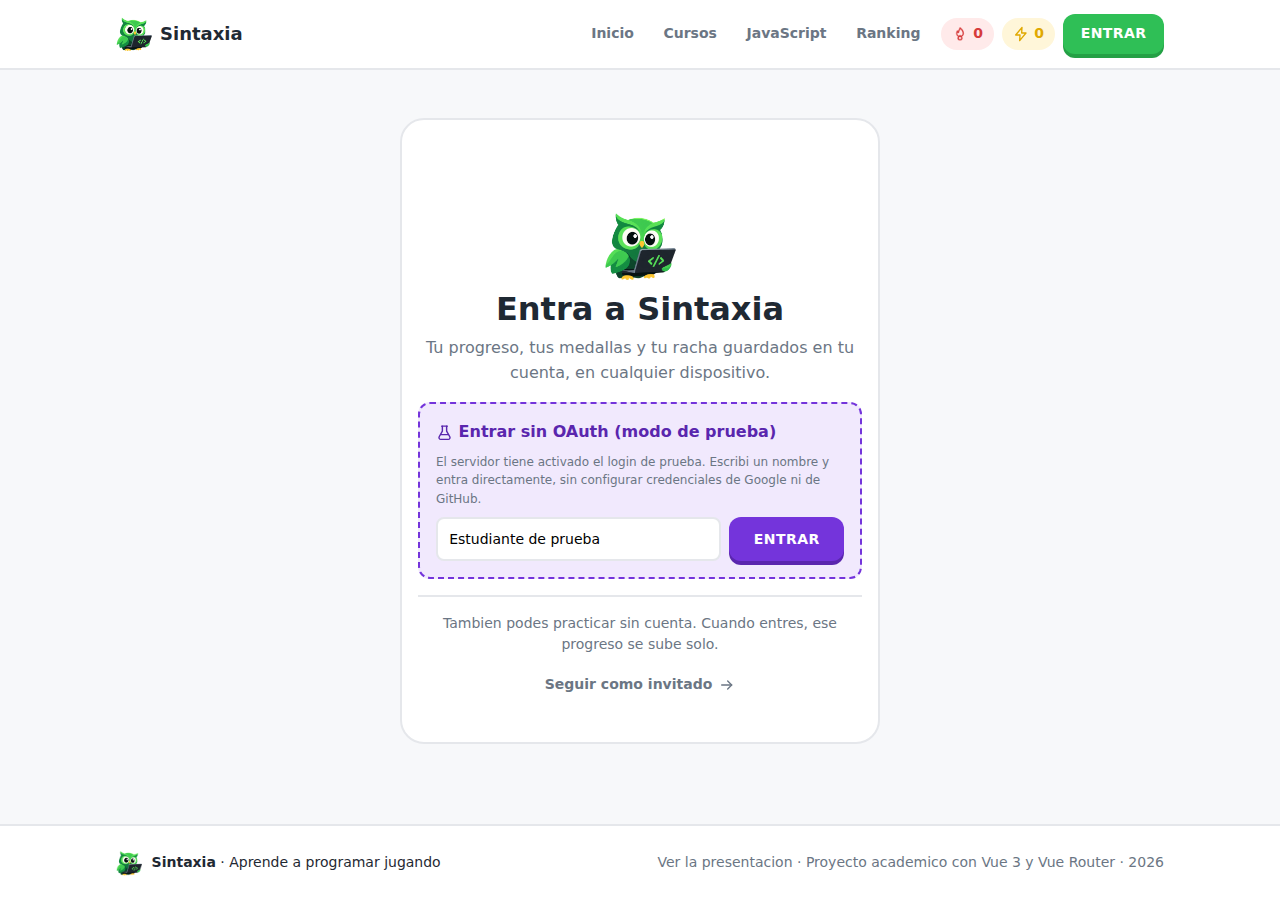
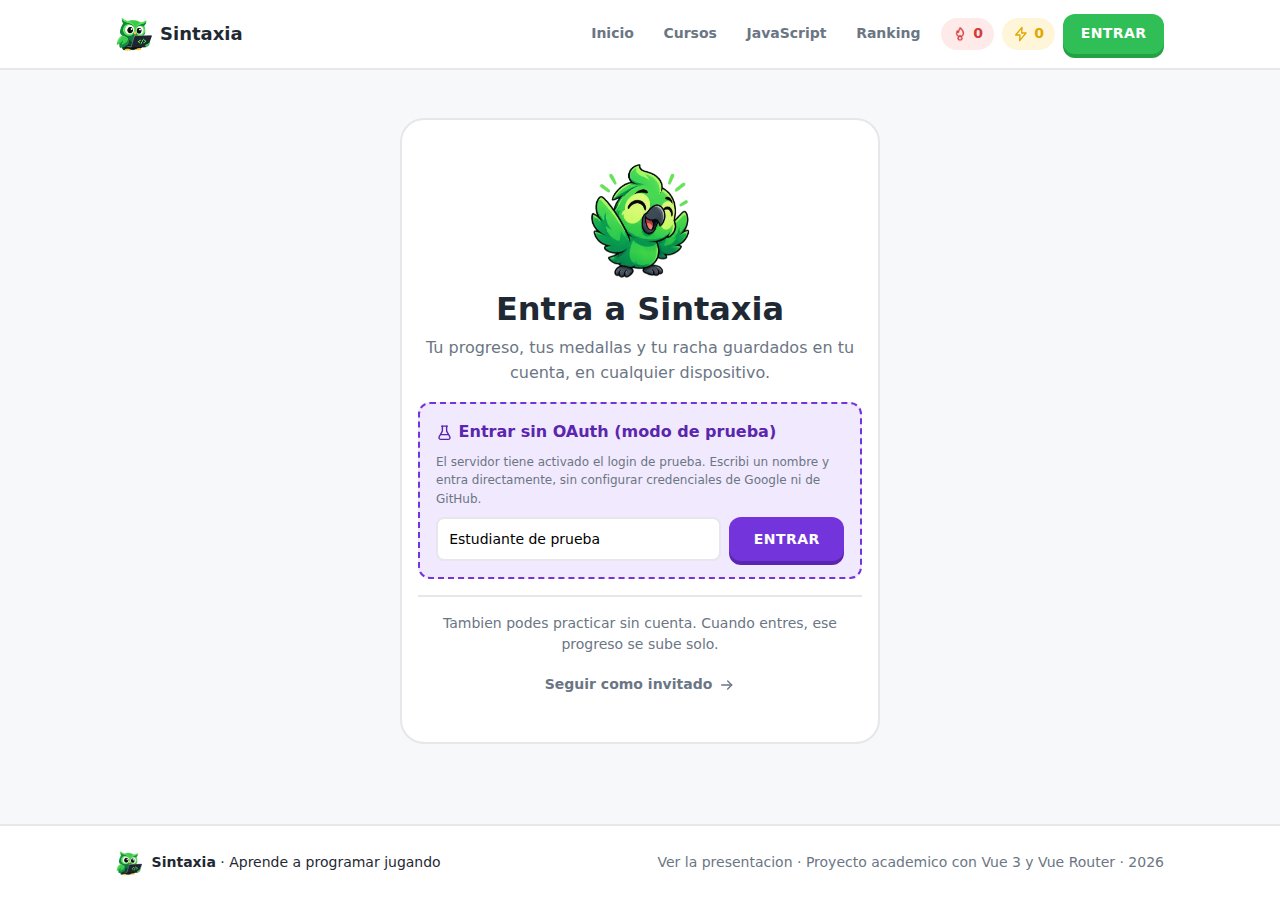
Agrega las ocho imagenes de Sintax
La hoja de poses venia con las ocho juntas en una sola imagen de 1536x1024, asi
que hubo que separarlas:

- Se recorto por los huecos reales entre poses en vez de dividir en cuartos
  iguales, porque dos de las poses se tocaban y el corte parejo las mordia.
- Se limpiaron las astillas de las poses vecinas que quedaban en los bordes,
  detectando componentes conectados chicos pegados al borde. Los globos (el "?",
  los Zzz, la lamparita, el destello) se conservan porque estan mas adentro.
- Se normalizaron a un lienzo comun de 391x447 con el personaje apoyado sobre la
  misma linea de piso, para que al cambiar de estado no salte de lugar ni cambie
  de tamanio.

Van en WebP: 44 KB por imagen contra 218 KB del PNG, con la misma calidad. Como
la aplicacion tiene que andar en el celular, esa diferencia importa. El
componente ahora prueba en orden <estado>.webp, <estado>.png, normal.webp,
normal.png y por ultimo el logo, asi que sirve dejar el archivo en cualquiera de
los dos formatos y nunca queda una imagen rota.

Que pose quedo en cada estado:
  normal       con la notebook, contento
  saludando    alas arriba, ojos cerrados
  confundido   ala en el pico y un "?"
  pensando     la lamparita de la idea
  enojado      notebook con la X roja
  dormido      acostado, con Zzz
  celebrando   anteojos de sol y destello
  sorprendido  ojos grandes, ala levantada

Claude-Session: https://claude.ai/code/session_01C5J8qESm2XhQNTtcfCLUDd

Changed region(s): [[0.4375, 0.1867, 0.5625, 0.3111]]

diff --git a/src/components/SintaxMascota.vue b/src/components/SintaxMascota.vue
@@ -6,20 +6,18 @@ import { ESTADOS_SINTAX } from '@/assets/estadosSintax.js'
 /**
  * Sintax, la mascota de Sintaxia.
  *
- * Cada estado de animo es una imagen en `public/sintax/<estado>.png`:
+ * Cada estado de animo es una imagen en `public/sintax/<estado>.webp`
+ * (ver los nombres en `src/assets/estadosSintax.js`).
  *
- *   normal.png       normal o feliz (es el que se usa por defecto)
- *   sorprendido.png
- *   pensando.png
- *   celebrando.png
- *   confundido.png
- *   enojado.png
- *   dormido.png
- *   saludando.png
+ * Se usa WebP porque pesa unas cinco veces menos que el PNG con la misma
+ * calidad, y eso se nota en el celular con datos moviles.
  *
- * Con solo dejar los archivos ahi aparecen solos. Si falta el estado pedido se
- * usa "normal"; si tampoco esta, se cae al logo, que a su vez tiene su propio
- * respaldo en SVG. Asi nunca se ve una imagen rota.
+ * Si algo falta, se va probando en orden hasta encontrar algo que mostrar:
+ *
+ *   <estado>.webp  ->  <estado>.png  ->  normal.webp  ->  normal.png  ->  logo
+ *
+ * Asi que alcanza con dejar el archivo en la carpeta, en cualquiera de los dos
+ * formatos, y nunca se ve una imagen rota.
  *
  * Cada estado trae ademas su propia animacion (flotar, asentir, dormir...),
  * que se apaga sola si el sistema pide menos movimiento.
@@ -40,18 +38,22 @@ const props = defineProps({
 
 const base = import.meta.env.BASE_URL
 
-/** 0 = el estado pedido · 1 = normal · 2 = el logo. */
+/** Orden en el que se busca la imagen, del ideal al ultimo recurso. */
+const intentos = computed(() => [
+  `${base}sintax/${props.estado}.webp`,
+  `${base}sintax/${props.estado}.png`,
+  `${base}sintax/normal.webp`,
+  `${base}sintax/normal.png`
+])
+
 const intento = ref(0)
 
 watch(() => props.estado, () => {
   intento.value = 0
 })
 
-const ruta = computed(() =>
-  intento.value === 0 ? `${base}sintax/${props.estado}.png` : `${base}sintax/normal.png`
-)
-
-const hayImagen = computed(() => intento.value < 2)
+const ruta = computed(() => intentos.value[intento.value])
+const hayImagen = computed(() => intento.value < intentos.value.length)
 
 function alFallar() {
   intento.value++

diff --git a/public/sintax/LEEME.md b/public/sintax/LEEME.md
@@ -2,32 +2,51 @@
 
 ## El logo
 
-`sintaxia.png` es el logo completo: el buho con la notebook y la palabra "Sintaxia".
-Lo usa `src/components/LogoSintaxia.vue` en la cabecera, el pie, la portada y el 404,
-y tambien es el favicon.
+`sintaxia.png` es el logo completo: el pajaro con la notebook y la palabra "Sintaxia".
+Lo usa `src/components/LogoSintaxia.vue` en la cabecera, el pie y el 404, y tambien
+es el favicon.
 
-En la cabecera se muestra recortado, solo el buho. El recorte esta calculado midiendo
-el PNG (el buho va de y=167 a y=673 y la palabra arranca en y=674) y se ajusta con dos
-variables CSS dentro del componente: `--logo-zoom: 275%` y `--logo-foco-y: 30%`.
+En la cabecera se muestra recortado, solo el personaje. El recorte esta calculado
+midiendo el PNG (el pajaro va de y=167 a y=673 y la palabra arranca en y=674) y se
+ajusta con dos variables CSS dentro del componente: `--logo-zoom: 275%` y
+`--logo-foco-y: 30%`.
 
 ## Los estados de Sintax
 
-Las imagenes de la mascota van en esta misma carpeta, en PNG con fondo transparente.
-El componente `src/components/SintaxMascota.vue` las toma por el nombre del archivo.
+Ocho imagenes, una por estado de animo. Las usa `src/components/SintaxMascota.vue`.
 
-| Archivo | Cuando se usa |
-|---|---|
-| `normal.png` | Normal o feliz. Es el que se usa por defecto y el que reemplaza a cualquiera que falte. |
-| `saludando.png` | Portada y pantalla de ingreso. |
-| `pensando.png` | Mientras se corrige una respuesta y en las pantallas vacias. |
-| `celebrando.png` | Leccion perfecta y medalla desbloqueada. |
-| `sorprendido.png` | Al desbloquear una unidad nueva. |
-| `confundido.png` | Respuesta incorrecta y pagina 404. |
-| `enojado.png` | Cuando se pierden las tres vidas. |
-| `dormido.png` | Cuando hace dias que no se practica. |
+| Archivo | Que muestra | Donde aparece |
+|---|---|---|
+| `normal.webp` | Con la notebook, contento | Por defecto, y reemplaza a cualquiera que falte |
+| `saludando.webp` | Alas arriba, ojos cerrados | Portada, ingreso, bienvenida e invitacion a crear cuenta |
+| `confundido.webp` | Ala en el pico y un "?" | Pagina 404 y resultados flojos |
+| `pensando.webp` | La lamparita de la idea | Pantallas vacias y el paso 2 de la bienvenida |
+| `enojado.webp` | Notebook con la X roja | Cuando se pierden las tres vidas |
+| `dormido.webp` | Acostado, con Zzz | Cuando todavia no empezaste |
+| `celebrando.webp` | Anteojos de sol y destello | Leccion perfecta y racha de 3 dias o mas |
+| `sorprendido.webp` | Ojos grandes, ala levantada | Al desbloquear algo nuevo |
 
-Mientras falte alguna, se muestra `normal.png`; si tampoco esta, se usa el logo.
-La aplicacion nunca queda con una imagen rota.
+### Formato
 
-Recomendado: PNG transparente, entre 400 y 600 px de alto, con el mismo encuadre
-en todas para que al cambiar de estado el personaje no salte de lugar.
+Estan en **WebP** porque pesa unas cinco veces menos que el PNG con la misma calidad
+(44 KB contra 218 KB cada una). En el celular con datos moviles la diferencia se nota.
+
+Igual el componente acepta los dos formatos: busca primero `<estado>.webp` y, si no
+esta, prueba `<estado>.png`. Asi que alcanza con dejar el archivo en la carpeta.
+
+### Si se reemplaza alguna
+
+Van todas con **fondo transparente** y **el mismo encuadre**: mismo tamanio de lienzo y
+el personaje apoyado sobre la misma linea de piso. Eso es lo que hace que al cambiar de
+estado el personaje no salte de lugar ni cambie de tamanio.
+
+Las actuales miden 391 x 447 px.
+
+### Orden de respaldo
+
+Si falta algo, se va probando hasta encontrar algo que mostrar, asi que nunca queda una
+imagen rota:
+
+```
+<estado>.webp  ->  <estado>.png  ->  normal.webp  ->  normal.png  ->  el logo
+```

diff --git a/README.md b/README.md
@@ -103,21 +103,26 @@ El buho del logo aparece en toda la aplicacion y **reacciona a lo que pasa**: ce
 leccion perfecta, se enoja cuando se pierden las tres vidas, se confunde en el 404 y duerme
 si hace rato que no practicas.
 
-Las imagenes van en **`public/sintax/`**, una por estado de animo:
+Las imagenes viven en **`public/sintax/`**, una por estado de animo:
 
-| Archivo | Cuando aparece |
-|---|---|
-| `normal.png` | Por defecto, y reemplaza a cualquiera que falte |
-| `saludando.png` | Portada, pantalla de ingreso e invitacion a crear cuenta |
-| `pensando.png` | Pantallas vacias |
-| `celebrando.png` | Leccion perfecta y racha de 3 dias o mas |
-| `sorprendido.png` | Al desbloquear algo nuevo |
-| `confundido.png` | Pagina 404 y resultados flojos |
-| `enojado.png` | Cuando se pierden las tres vidas |
-| `dormido.png` | Cuando todavia no empezaste |
+| Archivo | Que muestra | Cuando aparece |
+|---|---|---|
+| `normal.webp` | Con la notebook, contento | Por defecto, y reemplaza a cualquiera que falte |
+| `saludando.webp` | Alas arriba, ojos cerrados | Portada, ingreso y bienvenida |
+| `confundido.webp` | Ala en el pico y un "?" | Pagina 404 y resultados flojos |
+| `pensando.webp` | La lamparita de la idea | Pantallas vacias |
+| `enojado.webp` | Notebook con la X roja | Cuando se pierden las tres vidas |
+| `dormido.webp` | Acostado, con Zzz | Cuando todavia no empezaste |
+| `celebrando.webp` | Anteojos de sol y destello | Leccion perfecta y racha de 3 dias o mas |
+| `sorprendido.webp` | Ojos grandes, ala levantada | Al desbloquear algo nuevo |
+
+Estan en **WebP**: pesan unas cinco veces menos que el PNG con la misma calidad (44 KB
+contra 218 KB), que en el celular con datos moviles se nota. El componente igual acepta los
+dos formatos.
 
 Cada estado trae su propia animacion (flota, saluda, festeja, tiembla, duerme). Si falta un
-archivo se usa `normal.png`; si tampoco esta, se cae al logo. Nunca queda una imagen rota.
+archivo se prueba el PNG, despues `normal`, y por ultimo el logo: nunca queda una imagen
+rota.
 
 ## Iconos
 

diff --git a/docs/04-identidad-visual.md b/docs/04-identidad-visual.md
@@ -187,9 +187,17 @@ una `etiqueta` que el lector de pantalla si anuncia.
 
 ### La mascota
 
-**Sintax** es el buho del logo, y aparece en toda la aplicacion con **ocho estados de animo**
-(`public/sintax/`): normal, saludando, sorprendido, pensando, celebrando, confundido, enojado
-y dormido.
+**Sintax** es el personaje del logo, y aparece en toda la aplicacion con **ocho estados de
+animo** (`public/sintax/`): normal, saludando, sorprendido, pensando, celebrando, confundido,
+enojado y dormido.
+
+Las ocho comparten **el mismo encuadre**: igual tamanio de lienzo y el personaje apoyado
+sobre la misma linea de piso. Eso es lo que hace que al cambiar de estado no salte de lugar
+ni cambie de tamanio, que es lo que arruina este tipo de mascotas.
+
+Van en WebP, que pesa unas cinco veces menos que el PNG con la misma calidad: 44 KB contra
+218 KB por imagen. Con el celular en datos moviles, esa diferencia es la que decide si el
+personaje llega a tiempo a la pantalla o aparece tarde.
 
 No es decoracion: **reacciona a lo que pasa**. Celebra una leccion perfecta, se enoja cuando
 se pierden las tres vidas, se confunde en el 404 y duerme cuando hace rato que no practicas.
